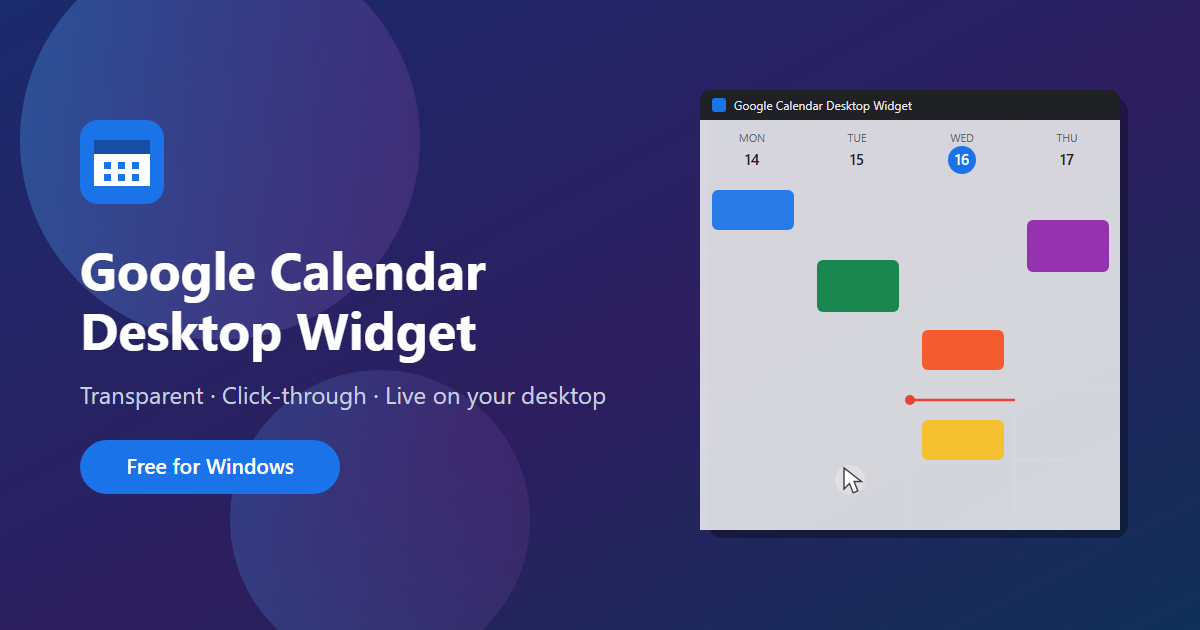
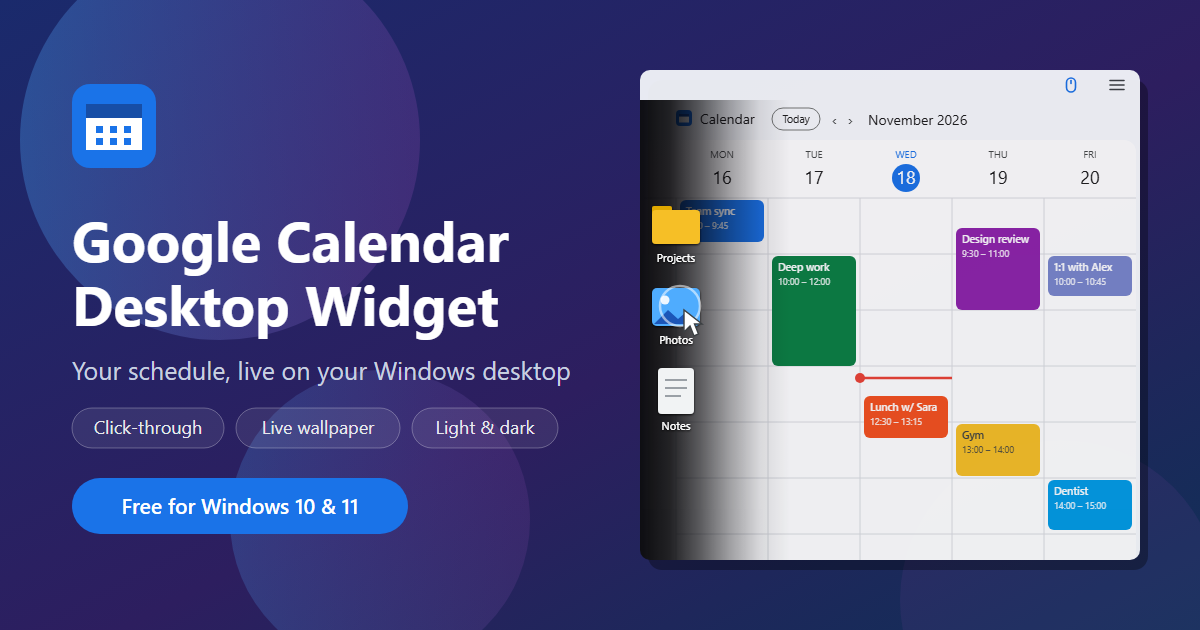
Refresh the social preview image; show tagged-link campaigns on the stats page
og.svg/og.png (the card LinkedIn and other sites show for a shared link)
now match the current app: light title bar that follows the calendar,
live-wallpaper mode with desktop icons on top and an edge shadow, and the
three headline features.

The stats page gains a "Tagged links (campaigns)" card fed by GoatCounter's
campaigns stats, so links shared as ?utm_source=…&utm_campaign=… show how
many visits each post or message brought in.

diff --git a/docs/stats/index.html b/docs/stats/index.html
@@ -470,11 +470,17 @@
       body => gcMissing || columnChart(body, visitDays.map(d => ({ label: fmtDay(d.date), value: d.value })), 'visits'),
       { head: ['Day', 'Visits'], rows: visitDays.map(d => [fmtDay(d.date), d.value]).reverse() });
 
-    const gcList = (id, title, sub, key, column, unit, labelFor) => card(id, title, sub,
-      body => gcMissing || (gcRange ? barList(body, gcRange[key].map(r => ({ label: labelFor(r), value: r.count })), unit) : 'Nothing recorded yet.'),
-      gcRange && { head: [column, unit[0].toUpperCase() + unit.slice(1)], rows: gcRange[key].map(r => [labelFor(r), r.count]) });
+    const gcList = (id, title, sub, key, column, unit, labelFor, emptyText) => {
+      const rows = gcRange && gcRange[key] || [];  // data files from before a list existed lack it
+      card(id, title, sub,
+        body => gcMissing || (barList(body, rows.map(r => ({ label: labelFor(r), value: r.count })), unit) && (emptyText || 'Nothing recorded yet.')),
+        rows.length && { head: [column, unit[0].toUpperCase() + unit.slice(1)], rows: rows.map(r => [labelFor(r), r.count]) });
+    };
     gcList('countries', 'Visits by country', `GoatCounter, last ${range} days`, 'locations', 'Country', 'visits', r => r.name || '(unknown)');
     gcList('referrers', 'Where website visitors come from', `GoatCounter referrers, last ${range} days`, 'referrers', 'Referrer', 'visits', r => r.name || '(direct or unknown)');
+    gcList('campaigns', 'Tagged links (campaigns)', `Visits through links ending in ?utm_campaign=…, e.g. a LinkedIn post, last ${range} days`,
+      'campaigns', 'Campaign', 'visits', r => r.name || '(unnamed)',
+      'No tagged links used in this range. Share a link ending in ?utm_source=linkedin&utm_campaign=<name> to see it here.');
     gcList('clicks', 'Clicks on the website', `Download buttons, GitHub links, donations and demo use, last ${range} days`, 'events', 'Event', 'clicks', r => r.title || r.name);
     gcList('systems', 'Visitors by operating system', `GoatCounter, last ${range} days`, 'systems', 'System', 'visits', r => r.name || '(unknown)');
 
